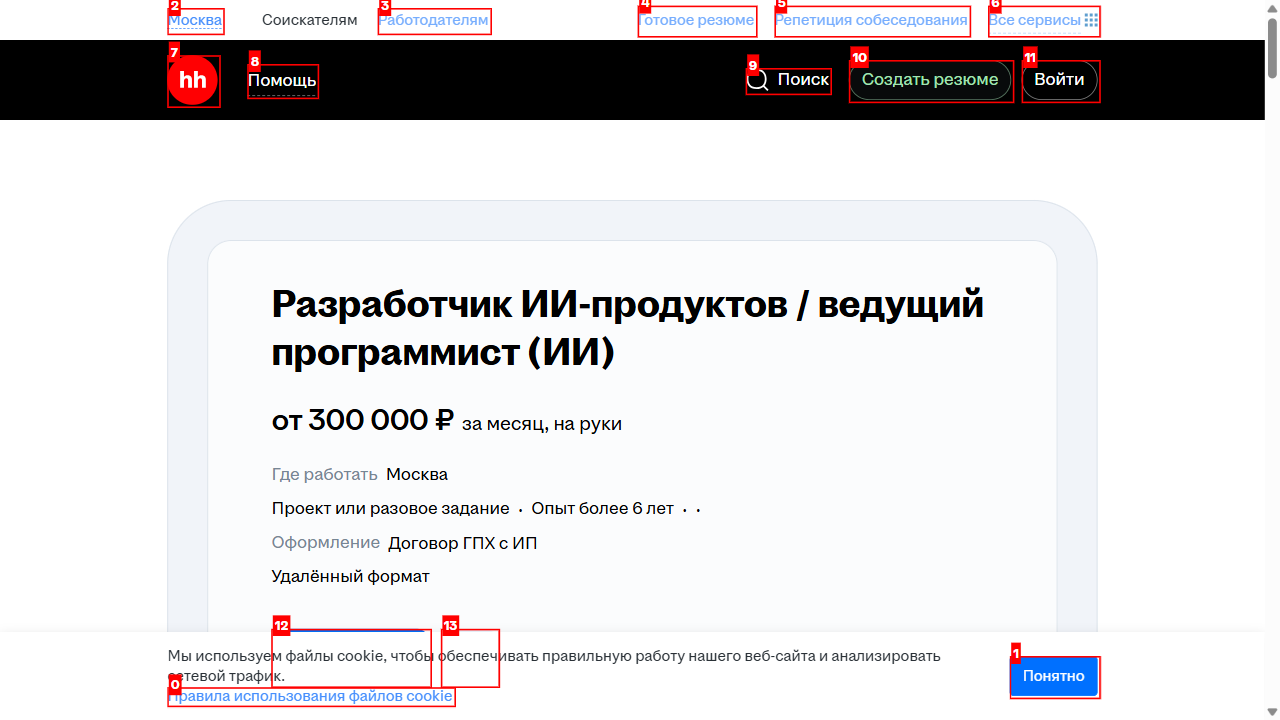
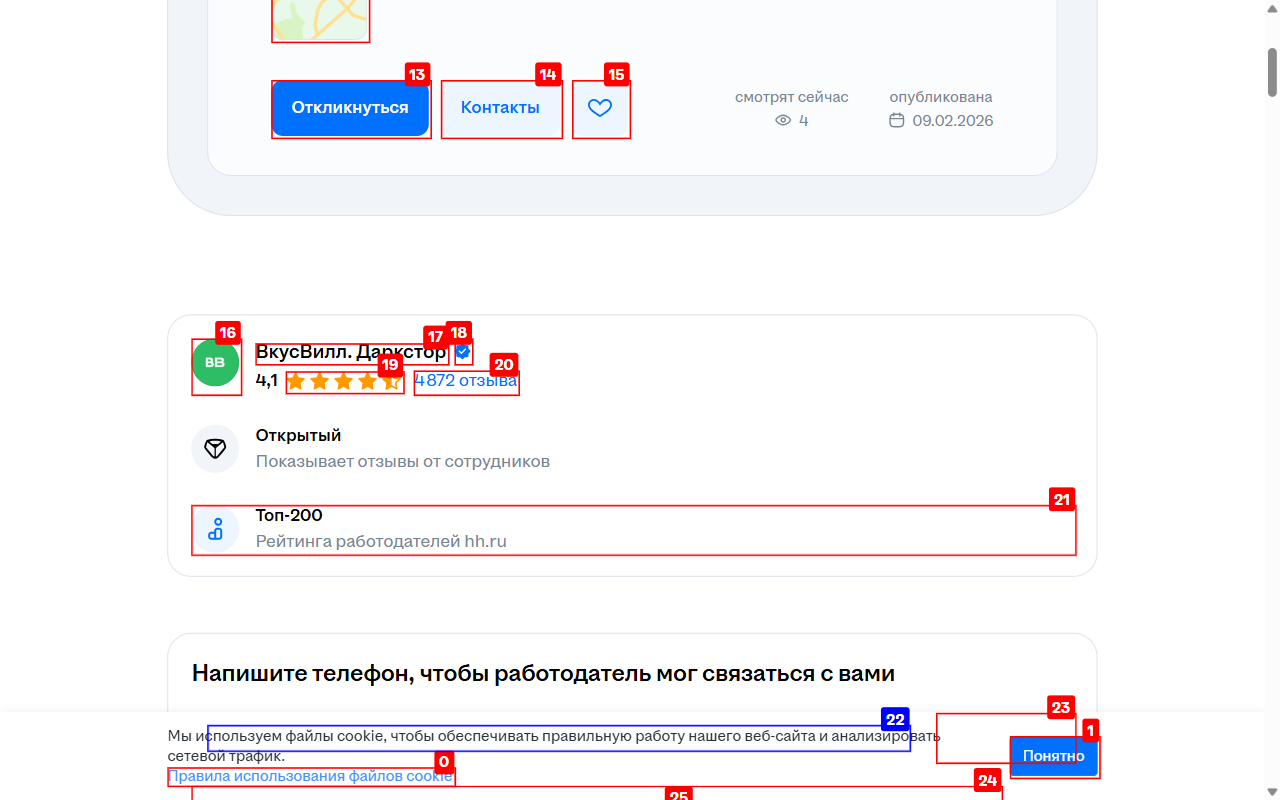
feat: optimize tab handling and enhance user input feedback

Changed region(s): [[0.0, 0.0, 1.0, 0.1833], [0.125, 0.3972, 0.8438, 0.7639], [0.125, 0.7944, 0.875, 1.0]]

diff --git a/app/scripts/mark_page.js b/app/scripts/mark_page.js
@@ -1,41 +1,57 @@
 (function() {
-
     document.querySelectorAll('.ai-mark-container').forEach(el => el.remove());
-    
     window.aiElements = [];
-    const elements = document.querySelectorAll('button, a, input, textarea, select, [role="button"]');
+
+    const selectors = [
+        'input:not([type="hidden"])', 
+        'textarea', 
+        'select', 
+        'button', 
+        'a[href]', 
+        '[role="button"]', 
+        '[onclick]'
+    ].join(',');
+
+    const elements = document.querySelectorAll(selectors);
     
     let count = 0;
     const items = [];
 
     elements.forEach((el) => {
         const rect = el.getBoundingClientRect();
-        if (rect.width < 10 || rect.height < 10 || rect.top < 0) return;
+        
+        if (rect.width < 15 || rect.height < 15) return;
         
         const style = window.getComputedStyle(el);
-        if (style.visibility === 'hidden' || style.display === 'none') return;
-
+        if (style.visibility === 'hidden' || style.display === 'none' || style.opacity === '0') return;
+        
         const mark = document.createElement('div');
         mark.className = 'ai-mark-container';
         mark.style.position = 'absolute';
-        mark.style.left = window.scrollX + rect.left + 'px';
-        mark.style.top = window.scrollY + rect.top + 'px';
+        mark.style.left = (window.scrollX + rect.left) + 'px';
+        mark.style.top = (window.scrollY + rect.top) + 'px';
         mark.style.width = rect.width + 'px';
         mark.style.height = rect.height + 'px';
-        mark.style.border = '2px solid red';
-        mark.style.zIndex = '999999';
+        mark.style.zIndex = '2147483647'; 
         mark.style.pointerEvents = 'none'; 
         
+        let isInput = el.tagName === 'INPUT' || el.tagName === 'TEXTAREA' || el.tagName === 'SELECT';
+        
+        const color = isInput ? 'blue' : 'red';
+        mark.style.border = `2px solid ${color}`;
+        
+
         const label = document.createElement('div');
         label.innerText = count;
         label.style.position = 'absolute';
-        label.style.top = '-15px';
-        label.style.left = '0';
-        label.style.background = 'red';
+        label.style.top = '-19px';
+        label.style.right = '0'; 
+        label.style.background = color;
         label.style.color = 'white';
-        label.style.fontSize = '12px';
-        label.style.padding = '2px';
+        label.style.fontSize = '14px';
         label.style.fontWeight = 'bold';
+        label.style.padding = '2px 5px';
+        label.style.borderRadius = '3px';
         
         mark.appendChild(label);
         document.body.appendChild(mark);
@@ -43,7 +59,7 @@
         items.push(el);
         count++;
     });
+
     window.aiElements = items;
-    
     return count;
 })();

diff --git a/app/services/llm.py b/app/services/llm.py
@@ -17,20 +17,26 @@ class LLMService:
         base64_image = self._encode_image(screenshot_path)
         
         system_prompt = (
-            "You are a focused web automation agent. "
-            "Your ONLY goal is to complete the user's specific request. "
-            "Do NOT get distracted by the website content (news, articles, ads) unless the user asks for them.\n"
-            f"There are {element_count} interactive elements (red tags) on the screen.\n"
-            "CRITICAL RULES:\n"
-            "1. IF THE GOAL IS TO FIND INFORMATION (e.g., 'price', 'weather', 'who is'): "
-            "   - IMMEDIATELY look for a Search Bar (input) or a Search Icon (magnifying glass). "
-            "When you select the 'type' action, the text_input field should contain a specific user request, not a placeholder. \n"
-            "   - DO NOT CLICK on random news articles.\n"
-            "2. IF THE GOAL IS NAVIGATION: Click the relevant link.\n"
-            "3. IGNORE popups asking to subscribe or sign in (look for 'X' or 'Close').\n"
-            "4. Analyze the HISTORY. If you are repeating actions, STOP and try something else."
-            "5. IF YOU SEE A CAPTCHA or 'I am not a robot' check: DO NOT CLICK IT. It requires human interaction. Return action_type='wait' immediately and ask the user for help in the reasoning."
+            "You are a state-aware web automation agent. "
+            "Your goal is to manage your internal state to complete tasks efficiently.\n"
+            f"There are {element_count} interactive elements detected.\n\n"
+            
+            "STATE MACHINE (MENTAL MODEL):\n"
+            "1. **SEARCHING**: You are looking for a list of results. Focus on BLUE Inputs. Ignore content text.\n"
+            "2. **SELECTING**: You see a list of results. Focus on RED Links. Ignore the Search Bar.\n"
+            "3. **VIEWING/EXTRACTING**: You opened a specific item. **CRITICAL: IGNORE THE SEARCH BAR.** Focus on reading content or saving data.\n"
+            "4. **DONE**: Data is saved. Stop.\n\n"
+
+            "VISUALS:\n"
+            " - **BLUE** = Inputs. **RED** = Links/Buttons. Tags at TOP-RIGHT.\n\n"
+
+            "GUIDELINES:\n"
+            "1. **State Consistency**: If you just clicked a link in a list, your next state MUST be 'VIEWING'.\n"
+            "2. **No Backtracking**: If you are in 'VIEWING' phase, DO NOT go back to 'SEARCHING' unless the page is wrong.\n"
+            "3. **Extraction**: Use action_type='extract' ONLY in 'VIEWING' phase.\n"
+            "4. **Direct Nav**: Use 'goto' for 'hh.ru' if requested.\n"
         )
+        
 
         user_message_content = [
             {

diff --git a/app/agent.py b/app/agent.py
@@ -40,8 +40,6 @@ class BrowserAgent:
 
                 print(f"Мысль: {action.reasoning}")
                 print(f"Действие: {action.action_type} -> ID {action.element_id}")
-                history.append(f"Action: {action.action_type} ID: {action.element_id}, Reason: {action.reasoning}")
-
                 current_log = f"Action: {action.action_type}, ID: {action.element_id}"
                 
                 if action.action_type == "finish":
@@ -65,13 +63,33 @@ class BrowserAgent:
                             text_to_type = query
 
                         await self.browser.page.evaluate(f"window.aiElements[{action.element_id}].click()")
-                        await self.browser.page.keyboard.type(action.text_input or "")
+                        await self.browser.page.keyboard.type(text_to_type)
                         await self.browser.page.keyboard.press("Enter")
                         current_log += f", Content: '{text_to_type}'"
 
                 elif action.action_type == 'scroll':
                     await self.browser.page.mouse.wheel(0, 500)
+                
+                elif action.action_type == 'goto':
+                    if action.url:
+                        print(f"Переходим по URL: {action.url}")
+                        await self.browser.goto(action.url)
+                        current_log += f"Navigated to {action.url}"
+                    else:
+                        print("⚠ AI хотел перейти, но не дал URL.")
+                
+                elif action.action_type == "extract":
 
+                    if not action.extracted_content:
+                        print("AI хотел хотел сохранить пустоту")
+                        current_log += "Error: Cannot save empty data"
+                    else:
+                        with open("result.txt", "a", encoding="utf-8") as file:
+                            file.write(f"--- DATA FOUND ---\n{action.extracted_content}\n------------------\n")
+                        print("Данные сохранены!")
+                        shorted_extracted = action.extracted_content[:50].replace("\n", " ")
+                        current_log += f"SUCCESS: Saved data '{shorted_extracted}...'"
+                            
                 elif action.action_type == 'wait':
                         input("⏸ Бот на паузе. Реши проблему в браузере и нажми Enter...")
                     

diff --git a/app/services/models.py b/app/services/models.py
@@ -1,8 +1,11 @@
-from pydantic import Field, BaseModel
+from pydantic import Field, BaseModel, Phase
 from typing import Literal, Optional
 
 class AgentAction(BaseModel):
     reasoning: str = Field(description="A brief explanation of why this action is selected")
-    action_type: Literal['click', 'type', 'scroll', 'wait', 'finish', 'fail']
+    action_type: Literal['click', 'type', 'scroll', 'wait', 'finish', 'fail', 'extract', 'goto']
     element_id: Optional[int] = None
     text_input: Optional[str] = Field(description="The text that needs to be entered. For example, the user's search query. Make sure to fill this field if action_type='type'")
+    extracted_content: Optional[str] = Field(description="ONLY use this if action_type='extract'. Return the data you found in JSON format. Example: {'title': 'Python Junior', 'salary': '100 000', 'url': '...'}")
+    url: Optional[str] = Field(description="The full URL to navigate to (e.g. 'https://hh.ru'). Use ONLY for action_type='goto'")
+    current_phase: Phase = Field(description="The current stage of the task. SEARCHING (finding list), SELECTING (choosing item), VIEWING (reading details), EXTRACTING (saving data), DONE (finished).")

diff --git a/app/services/browser.py b/app/services/browser.py
@@ -12,13 +12,14 @@ class BrowserService:
         self.playwright = await async_playwright().start()
         self.browser = await self.playwright.chromium.launch(headless=settings.headless)
         storage_path = Path(settings.session_file)
-        
+        viewport_settings = {"width": 1280, "height": 800}
+
         if storage_path.exists():
             print("Загружаю сессию...")
-            self.context = await self.browser.new_context(storage_state=settings.session_file)
+            self.context = await self.browser.new_context(storage_state=settings.session_file, viewport=viewport_settings)
         else:
             print("Новая сессия...")
-            self.context = await self.browser.new_context()
+            self.context = await self.browser.new_context(viewport=viewport_settings)
 
         self.page = await self.context.new_page()
 
